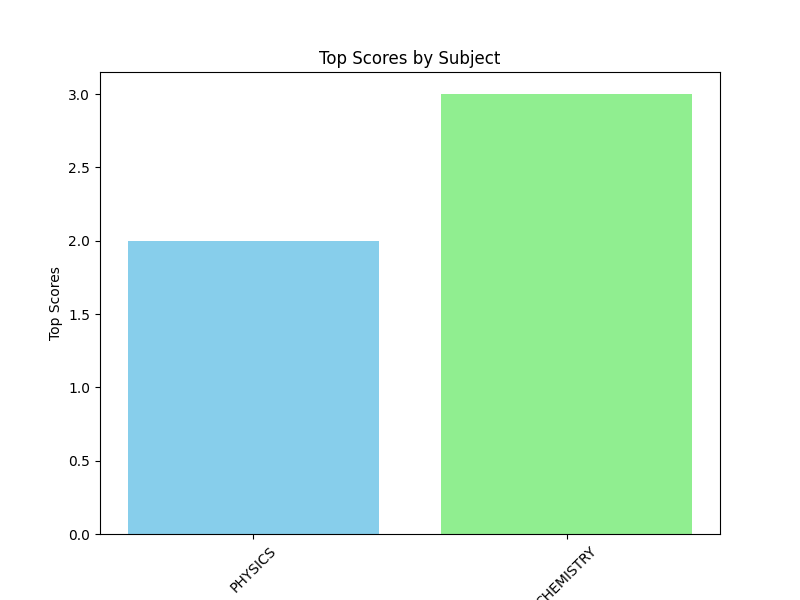
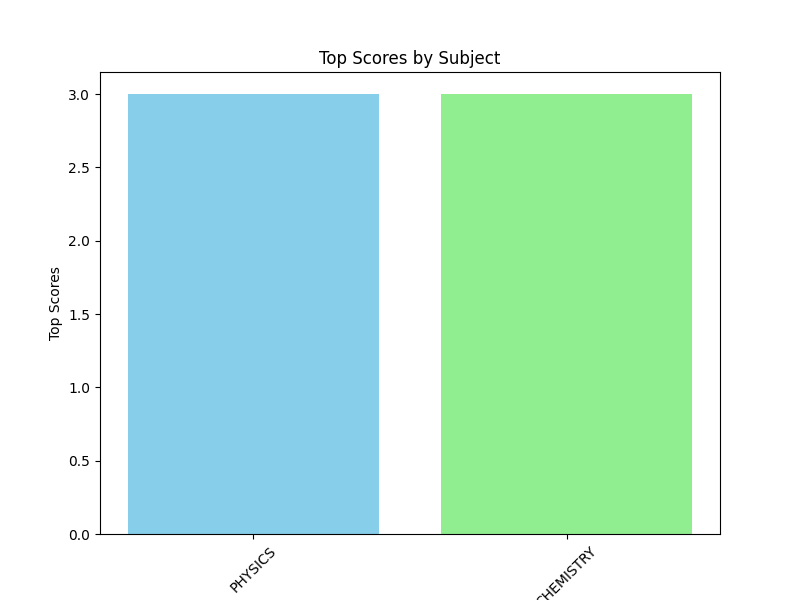
last commit

Changed region(s): [[0.1562, 0.15, 0.5, 0.42]]

diff --git a/app.py b/app.py
@@ -713,7 +713,9 @@ def admin_summary():
 
         for subject in subjects:
             quizzes = Quiz.query.join(Chapter).filter(Chapter.subject_id == subject.id).all()
-            max_score = max((db.session.query(Score.score).filter(Score.quiz_id == quiz.id).scalar() or 0) for quiz in quizzes)
+            max_score = max([db.session.query(Score.score).filter(Score.quiz_id == quiz.id).scalar() or 0 for quiz in quizzes] or [0])
+
+
 
             print(f"📈 Subject: {subject.name}, Max Score: {max_score}")  # Debugging print
 
